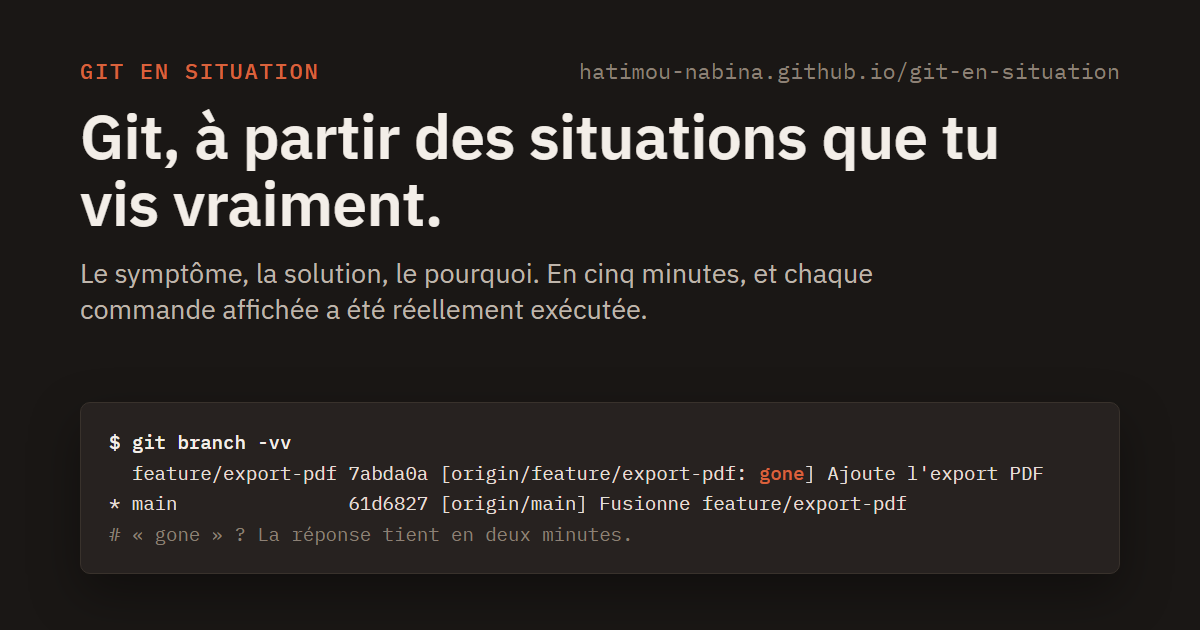
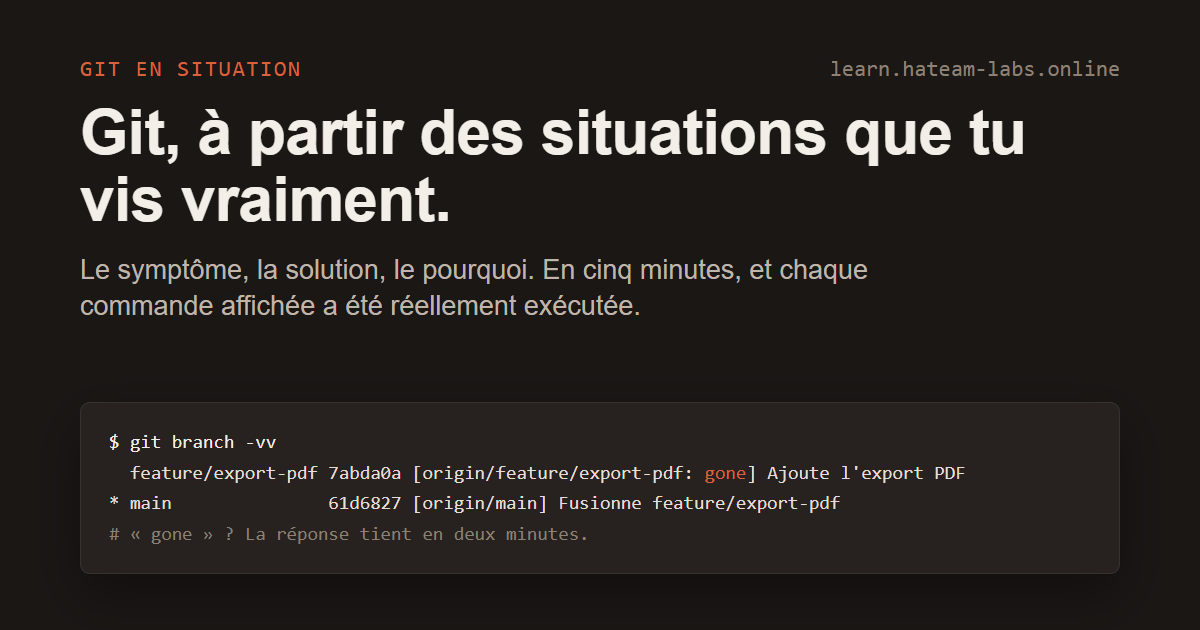
fix(site): sert le site à la racine du domaine learn.hateam-labs.online
site et base changent, les redirections et l'image de partage passent par prefix (sinon // dans les adresses), liens du héros et de la 404 sans /git-en-situation, image de partage régénérée, README, CONTRIBUTING, CLAUDE.md et CHANGELOG à jour.

diff --git a/src/assets/og-image.html b/src/assets/og-image.html
@@ -39,7 +39,7 @@
 </head>
 <body>
   <div>
-    <div class="top"><span class="name">Git en situation</span><span class="url">hatimou-nabina.github.io/git-en-situation</span></div>
+    <div class="top"><span class="name">Git en situation</span><span class="url">learn.hateam-labs.online</span></div>
     <h1>Git, à partir des situations que tu vis vraiment.</h1>
     <p class="tagline">Le symptôme, la solution, le pourquoi. En cinq minutes, et chaque commande affichée a été réellement exécutée.</p>
   </div>

diff --git a/CLAUDE.md b/CLAUDE.md
@@ -9,7 +9,7 @@ Le propriétaire travaille sur **plusieurs machines**. Tout ce qui est nécessai
 - **Nom** : `git-en-situation`. Public et open source : contenu sous CC BY-SA 4.0 (`LICENSE-CONTENT.md`), code du site sous MIT (`LICENSE`).
 - **Langue** : français d'abord (locale racine), anglais ensuite (`src/content/docs/en/`, repli automatique sur le français).
 - **Public** : développeurs francophones de tous niveaux. Tutoiement.
-- **Hébergement** : GitHub Pages, `https://hatimou-nabina.github.io/git-en-situation/`, d'où `base: '/git-en-situation'` dans `astro.config.mjs`. Un domaine propre viendra peut-être : il suffira de changer `site` et `base`, le contenu n'a pas à bouger.
+- **Hébergement** : GitHub Pages. Au départ `https://hatimou-nabina.github.io/git-en-situation/` (`base: '/git-en-situation'`) ; depuis le 21 octobre 2026, **domaine propre `https://learn.hateam-labs.online/`** (réglage « Custom domain » de Pages, HTTPS forcé), d'où `site` = ce domaine et `base: '/'` dans `astro.config.mjs`. Le contenu n'a pas bougé.
 - **Le projet s'applique à lui-même** : commits conventionnels, pull requests, `CODEOWNERS`, CI, changelog, gabarits d'issue.
 
 ## Décisions (7 octobre 2026, phase 4)
@@ -40,7 +40,7 @@ Le propriétaire travaille sur **plusieurs machines**. Tout ce qui est nécessai
 
 ```bash
 npm ci
-npm run dev                              # http://localhost:4321/git-en-situation/
+npm run dev                              # http://localhost:4321/
 npm run build                            # valide aussi les liens internes
 npm run check                            # types des composants Astro
 npm run verifier                         # rejoue les scripts et compare avec les blocs des pages
@@ -79,7 +79,7 @@ EXERCICE=1 bash scripts/situations/<slug>.sh   # fabrique la panne dans exercice
 
 ## Pièges connus
 
-- **`base`** : ne jamais écrire `/git-en-situation` dans le contenu. Les liens sont `/section/slug/`, le plugin fait le reste. Les liens de la barre latérale sont gérés par Starlight. **Une exception** : les boutons du héros (`hero.actions` dans `index.mdx` et `en/index.mdx`) ne sont pas préfixés par Starlight ni par le plugin (ils sont dans l'en-tête, pas dans le Markdown) ; ils contiennent la base en clair. À changer avec `site` et `base` le jour du domaine propre.
+- **`base`** : ne jamais écrire `/git-en-situation` dans le contenu. Les liens sont `/section/slug/`, le plugin fait le reste. Les liens de la barre latérale sont gérés par Starlight. **Une exception** : les boutons du héros (`hero.actions` dans `index.mdx` et `en/index.mdx`) ne sont pas préfixés par Starlight ni par le plugin (ils sont dans l'en-tête, pas dans le Markdown) ; ils contiennent la base en clair (aujourd'hui aucune, le site est à la racine du domaine). À changer avec `base` si le site change de chemin. `astro.config.mjs` compose ses adresses avec `prefix` (`base` sans barre finale), jamais avec `base` directement : `${base}/x` donnerait `//x`.
 - **`lastUpdated`** lit l'historique Git : les workflows font un `checkout` avec `fetch-depth: 0`, sinon toutes les pages affichent la date du build.
 - **i18n** : la locale racine est le français. Une page absente en anglais affiche le français avec un bandeau ; ce n'est pas une erreur. Les liens des pages anglaises s'écrivent `/en/…`. Les composants ne filtrent jamais sur les identifiants `en/…` : ils partent des pages françaises et cherchent la traduction (`src/i18n.ts`).
 - **Validation des liens** : un lien vers une page qui n'existe pas encore casse le build. Les pages futures se citent en italique avec « (à venir) », sans lien. Le validateur refuse aussi un lien vers une page de repli (`errorOnFallbackPages`, son défaut) : une page anglaise qui cite une page française sans traduction casse le build, d'où la règle « une page française nouvelle arrive avec sa traduction » du CONTRIBUTING. Relâché le 7 octobre 2026 le temps de traduire les 68 pages, strict depuis la fin du lot 30, le même jour.

diff --git a/README.md b/README.md
@@ -4,7 +4,7 @@
 
 Personne ne cherche « fetch prune ». On cherche « je vois encore une branche qui a été supprimée ». Ce site part de là : chaque page répond à une situation, du symptôme au pourquoi, en moins de cinq minutes, avec des commandes **réellement exécutées** dont la sortie affichée est la vraie.
 
-Site : https://hatimou-nabina.github.io/git-en-situation/
+Site : https://learn.hateam-labs.online/
 
 [![CI](https://github.com/Hatimou-Nabina/git-en-situation/actions/workflows/ci.yml/badge.svg)](https://github.com/Hatimou-Nabina/git-en-situation/actions/workflows/ci.yml)
 [![Vérifier les sorties](https://github.com/Hatimou-Nabina/git-en-situation/actions/workflows/verifier-sorties.yml/badge.svg)](https://github.com/Hatimou-Nabina/git-en-situation/actions/workflows/verifier-sorties.yml)
@@ -19,7 +19,7 @@ Site : https://hatimou-nabina.github.io/git-en-situation/
 | **Travailler en équipe** | Branches, pull requests, revue, commits conventionnels, changelog, protections, secrets, plusieurs machines. |
 | **Commandes** | Une fiche par commande, limitée aux options utiles, qui renvoie aux situations où elle sert. |
 
-En français d'abord, pour les développeurs francophones de tous niveaux, et en anglais : https://hatimou-nabina.github.io/git-en-situation/en/. Les 74 pages existent dans les deux langues, avec les mêmes commandes et les mêmes sorties.
+En français d'abord, pour les développeurs francophones de tous niveaux, et en anglais : https://learn.hateam-labs.online/en/. Les 74 pages existent dans les deux langues, avec les mêmes commandes et les mêmes sorties.
 
 ## Les sorties sont vraies
 
@@ -49,7 +49,7 @@ Node.js 22 et Git. Sous Windows, les scripts s'exécutent dans Git Bash.
 
 ```bash
 npm ci
-npm run dev        # http://localhost:4321/git-en-situation/
+npm run dev        # http://localhost:4321/
 npm run build      # construit le site et valide les liens internes
 ```
 

diff --git a/CHANGELOG.md b/CHANGELOG.md
@@ -7,6 +7,17 @@ Ce fichier suit les évolutions du site et de son contenu. Format inspiré de [K
 
 ---
 
+## [Non publié] — Domaine propre `learn.hateam-labs.online`
+
+Branche `fix/base-domaine-propre`. Le site est servi à la racine de `https://learn.hateam-labs.online/` (Pages, « Custom domain »).
+
+- `astro.config.mjs` : `site` = le domaine, `base` = `/`. Les redirections et l'adresse de l'image de partage passent par `prefix` (la base sans barre finale), sinon `//situations/…` et `…//og-image.png`.
+- Boutons du héros (accueil français et anglais) et page 404 : liens sans `/git-en-situation`.
+- Image de partage régénérée avec la nouvelle adresse.
+- `README.md`, `CONTRIBUTING.md`, `CLAUDE.md` : adresses du site et de `npm run dev` (`http://localhost:4321/`).
+
+---
+
 ## [Non publié] — Les six pages « Comprendre » qui manquaient
 
 Branche `comprendre/pages-a-venir`, partie de `main` (`431ee36`). Hors phase : ces pages étaient laissées aux contributeurs comme « bonne première contribution » ; le mainteneur a demandé le 7 octobre 2026 qu'elles soient écrites.

diff --git a/src/content/docs/404.md b/src/content/docs/404.md
@@ -8,7 +8,7 @@ hero:
   tagline: Cette adresse ne mène à rien. Si tu cherchais une situation précise, elle n'est peut-être pas encore écrite.
   actions:
     - text: Voir les situations
-      link: /git-en-situation/situations/
+      link: /situations/
       icon: right-arrow
     - text: Proposer cette situation
       link: https://github.com/Hatimou-Nabina/git-en-situation/issues/new?template=proposer-une-situation.yml

diff --git a/CONTRIBUTING.md b/CONTRIBUTING.md
@@ -35,7 +35,7 @@ Il faut Node.js 22 et Git. Sous Windows, les scripts s'exécutent dans Git Bash.
 git clone https://github.com/<ton-compte>/git-en-situation.git
 cd git-en-situation
 npm ci
-npm run dev      # http://localhost:4321/git-en-situation/
+npm run dev      # http://localhost:4321/
 ```
 
 | Commande | Rôle |
